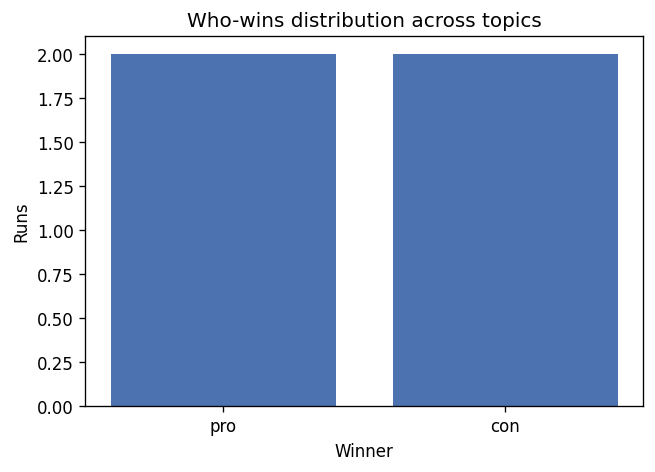
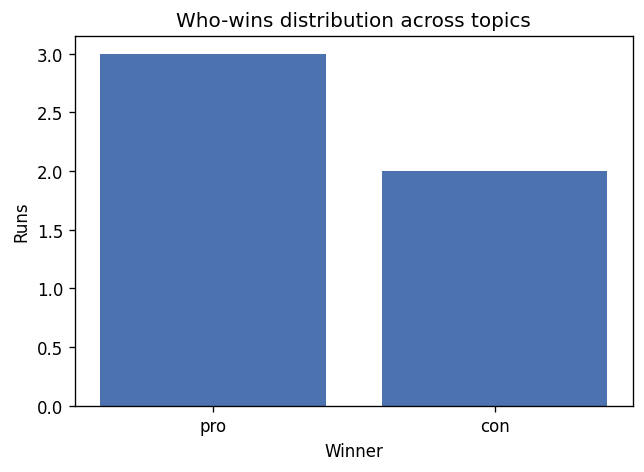
Add 5-round social-media-ban debate run + update dataset/charts
Adds a 5-round debate on "Children under 16 should be banned from
social media" (winner: Pro, 146,356 tokens, ~$0.564). Regenerates the
runs dataset CSV (now 5 rows), the who-wins and agree-vs-disagree
figures, and updates runs/README.md and notebooks/figures/README.md
(n=4 -> n=5).

diff --git a/runs/social-media-ban/social-media-ban.md b/runs/social-media-ban/social-media-ban.md
@@ -1,0 +1,205 @@
+# Debate run `social-media-ban`
+
+**Topic:** Children under 16 should be banned from social media
+
+## Transcript
+
+### Round 1
+
+**Pro** (54 words)
+
+I'm ready to argue **FOR** the motion: *"Children under 16 should be banned from social media."*
+
+Please go ahead and share the **opponent's opening argument** so I can analyze it and build a strong rebuttal. Or, if this is the **opening round**, just let me know and I'll construct my first argument right away!
+
+**Con** (136 words)
+
+**Opening argument — AGAINST the motion:**
+
+The opponent has offered no actual case — just procedure. That alone exposes the weakness of the pro-ban position: there is no self-evident reason a blanket ban is justified.
+
+Here's why the motion fails:
+
+1. **Evidence opposes it.** Research (1News, 2026) confirms *some* social media use genuinely benefits teen mental health by fostering connection and community.
+2. **The age threshold is arbitrary.** No justification has been offered for why 16 specifically is the magic number.
+3. **Better solutions exist.** Parental oversight and digital literacy education are proven, targeted tools — a blunt ban ignores them entirely.
+4. **Bans backfire.** Driving usage underground removes safeguards, making children *less* safe, not more.
+
+A ban punishes responsible users to address irresponsible use. Education and regulation — not prohibition — are the right answers.
+
+### Round 2
+
+**Pro** (133 words)
+
+**Rebuttal — FOR the motion:**
+
+The opponent cherry-picks *"some benefits"* while ignoring the dominant evidence: rising rates of anxiety, depression, cyberbullying, and predatory grooming that disproportionately harm under-16s.
+
+**Age 16 is not arbitrary.** Neuroscience confirms adolescent brains are uniquely vulnerable to addictive, dopamine-exploiting platform design — the same logic underpins age limits on alcohol, gambling, and driving. The opponent's "bans backfire" claim would equally dismantle *all* those protections — a position nobody defends.
+
+**Parental oversight and digital literacy have been available for a decade and have failed.** Youth mental health crises worsened *during* that experiment. Insufficient tools cannot substitute for a meaningful safeguard.
+
+Crucially, **Australia has already legislated** an under-16 ban — real governments are acting on real evidence. The pro-ban position is not speculative; it is happening. Education alone is not enough.
+
+**Con** (145 words)
+
+**Rebuttal — AGAINST the motion:**
+
+The opponent's Australia argument confuses **legislation with evidence**. Australia's law is brand-new — zero outcome data exists. Passing a ban is not proof it works.
+
+Researchers are explicit: *"We cannot ban our way out of a youth mental health crisis"* — no solid evidence demonstrates banning teens from social media improves mental health outcomes.
+
+**Correlation ≠ causation.** Mental health decline links to COVID, poverty, and academic pressure — not social media alone. Blaming one platform ignores complex realities.
+
+The alcohol/gambling analogy **undermines** the pro-ban case: those age limits still fail minors routinely, proving bans are imperfect tools. Worse, grooming occurs across **all** digital platforms — a social media ban cannot stop it.
+
+Governments acting does not make policy *correct*. History is full of well-intentioned bans that backfired. Real protection means better enforcement, platform accountability, and genuine education — not prohibition.
+
+### Round 3
+
+**Pro** (139 words)
+
+**Rebuttal — FOR the motion:**
+
+The opponent claims "no causal evidence" — researchers explicitly reject that. The *World Happiness Report* (2026) confirms social media harms adolescents **at population scale**, and the U.S. Surgeon General cited studies showing heavy use **doubles depression risk** in teens. *Science News* (2024) directly states objecting to the "no causation" claim is fully warranted.
+
+On imperfect enforcement: alcohol age limits aren't perfect — yet nobody proposes abolishing them. Imperfect protection **still reduces harm**. That's the standard we apply everywhere.
+
+Most critically: **"education and regulation" has been the active strategy for over a decade.** Youth mental health declined *anyway*. The opponent's preferred tools have already failed in real time.
+
+A ban is not a perfect solution — it is a **necessary** one when all softer alternatives have demonstrably collapsed. The evidence and the urgency demand it.
+
+**Con** (136 words)
+
+**Rebuttal — AGAINST the motion:**
+
+The opponent declares the science settled — experts disagree. DW and EducationDaily **openly question** whether prohibition addresses youth mental health decline at all. Cherry-picking the Surgeon General while ignoring contradictory peer-reviewed work is not "evidence"; it's selection bias.
+
+Crucially: **regulation was never properly tried.** Declaring it "failed" after a decade of underfunded, unenforced half-measures is like abandoning medicine after half a dose.
+
+Australia's own implementation experts warn the ban is **"easy to circumvent"** — teens simply migrate to darker, unregulated spaces with *zero* safeguards. That's not protection; it's abandonment.
+
+Mental health crises stem from poverty, COVID trauma, and academic pressure — not social media alone. A ban **cannot fix** those root causes.
+
+The correct standard isn't "imperfect bans reduce *some* harm" — it's whether targeted regulation achieves *better* outcomes. It does.
+
+### Round 4
+
+**Pro** (141 words)
+
+**Rebuttal — FOR the motion:**
+
+The opponent's core defence — *"regulation was never properly tried"* — is an empty promise. After three rounds, they still offer **zero concrete plan**, no timeline, no jurisdiction where targeted regulation has measurably improved teen mental health. That's not an argument; it's an indefinite deferral.
+
+Haidt's peer-reviewed Collaborative Review confirms Instagram experiments show social media **directly causes** mental health decline in teen girls — not mere correlation. The opponent dismisses the Surgeon General but counters none of the actual data.
+
+The "darker spaces" objection self-destructs: it applies equally to alcohol, gambling, and driving age limits — laws nobody proposes abolishing.
+
+Multi-cause crises still warrant targeted action. We ban drink-driving even though fatigue also causes accidents.
+
+**A vague future regulation that has never worked anywhere is not a safer alternative — it is no alternative at all.**
+
+**Con** (135 words)
+
+**Rebuttal — AGAINST the motion:**
+
+The opponent demands a concrete jurisdiction — here it is: **the EU's Digital Services Act**, actively enforcing platform-level risk assessments for minors *right now*. That's real regulation, real enforcement, real accountability.
+
+**Haidt's research is not settled science.** Over 100 researchers signed an open letter challenging his methodology. The opponent presents contested findings as consensus — that's intellectually dishonest.
+
+The drink-driving analogy **collapses entirely**: driving is a privilege. Digital literacy is now a fundamental life skill. Banning children from it denies them participation in modern society.
+
+Crucially, **CEPA explicitly concludes social media bans fail to protect children** — endorsing the DSA regulatory model instead.
+
+The opponent has never demonstrated Australia's ban is enforceable. A VPN defeats it in seconds.
+
+Targeted regulation: *proven, existing, enforceable.* A blanket ban: *unenforceable, harmful, and unnecessary.*
+
+### Round 5
+
+**Pro** (137 words)
+
+**Rebuttal — FOR the motion:**
+
+The DSA is the opponent's star witness — yet the **OECD (April 2026)** confirms youth mental health is **still worsening across Europe** while the DSA operates. That's not proof of success; it's proof regulation alone is insufficient.
+
+"Digital literacy" does not require TikTok or Instagram. Children develop online skills through educational platforms **without** exposure to algorithmically addictive, engagement-maximising feeds designed to exploit developing brains.
+
+The 100-researcher letter challenges *methodology* — not the entire independent evidence base including WHO, OECD, and the U.S. Surgeon General. Disputing one researcher doesn't erase converging global concern.
+
+VPN circumvention undermines **every** age-based law. Nobody abolishes alcohol age limits because fake IDs exist.
+
+CEPA is one organisation. It does not override the Surgeon General, OECD, WHO, and multiple legislating governments. **The DSA is unproven. A ban is necessary.**
+
+**Con** (135 words)
+
+**Rebuttal — AGAINST the motion:**
+
+The opponent's OECD data predates full DSA enforcement — condemning a tool before it fully operates is not evidence; it's impatience.
+
+**The Hill (Feb 2026)** explicitly concludes teen social media bans are **ineffective**, driving circumvention rather than protection. **Brookings (Dec 2025)** confirms bans don't clearly solve underlying problems.
+
+The opponent commits a **false binary**: "regulation insufficient alone" ≠ "ban is necessary." The logical answer is *stronger enforcement* — not prohibition.
+
+Critically, **Australia's own ABC** warned the ban disproportionately harms isolated and marginalised teenagers — the very children most needing connection and support. A blanket ban punishes society's most vulnerable.
+
+The opponent's entire case rests on one leap: nothing else works, therefore ban. That's not logic — it's surrender. Better enforcement, platform accountability, and digital literacy remain the superior, evidence-backed path.
+
+## Closing discussion
+
+**Pro** (136 words)
+
+**Closing Statement — FOR the motion:**
+
+The opponent spent five rounds defending a strategy — *"targeted regulation"* — that has already been running and already failed. Youth mental health worsened **during** the DSA era, **during** the digital literacy era, **during** a decade of platform self-regulation.
+
+The world has answered. **Australia, France, Greece, Spain, Denmark, Norway, and Malaysia** have all moved to ban under-16s. This is not ideology — it is democratic governments responding to a documented crisis.
+
+Digital literacy doesn't require Instagram. Children thrive, learn, and connect **without** algorithmically addictive feeds engineered to maximise engagement at the cost of wellbeing.
+
+The opponent offered promises. We offered precedent.
+
+When softer tools fail and children are being harmed **at scale**, protection is not optional — it is a moral obligation. The motion stands. **Ban social media for under-16s.**
+
+**Con** (143 words)
+
+## Closing Statement — AGAINST the Motion
+
+Throughout this debate, the pro-ban side has relied on prediction, correlation, and impatience. Here is what we now *know*:
+
+**Australia's ban — their flagship evidence — has already failed.** 61% of young Australians bypassed it within weeks by simply changing a birthdate. *The Conversation* warns it could do **more harm than good**, particularly for marginalised teens who depend on digital community.
+
+Not one enacted ban has produced measurable mental health improvement. Not one.
+
+The opponent's entire case is: *"everything else failed, therefore ban."* That's not logic — it's surrender dressed as policy.
+
+Children deserve **real protection**: enforced platform accountability, age-appropriate design standards, and genuine digital education. These address root causes. A ban merely redirects vulnerable children into darker, completely unregulated spaces.
+
+**Prohibition has never been the answer. Evidence, enforcement, and education are.**
+
+Vote against this motion.
+
+## Controller nudges
+
+_No nudges were needed — neither agent drifted._
+
+## Verdict
+
+- **Winner:** Pro
+- **Agents converged:** no
+- **Scores:** Pro 20.25, Con 19.5
+
+**Summary.** Debate of 12 turns. The pro side argued more effectively and wins. The agents stayed opposed. Judged on argumentation, rebuttal quality and engagement — not factual correctness.
+
+**Rationale.** Pro scored 20.25 and Con scored 19.5 on argumentation/rebuttal/engagement; winner = pro.
+
+## Cost & tokens
+
+- **Total tokens:** 146356 (input 135918, output 10438)
+- **Total cost:** $0.564324
+- **Total latency:** 232656 ms
+
+| Model | Input tokens | Output tokens | $ Input | $ Output | $ Total |
+| --- | --- | --- | --- | --- | --- |
+| anthropic:claude-sonnet-4-6 | 135918 | 10438 | $0.407754 | $0.156570 | $0.564324 |
+| Overall | 135918 | 10438 | $0.407754 | $0.156570 | $0.564324 |

diff --git a/notebooks/figures/README.md b/notebooks/figures/README.md
@@ -1,10 +1,10 @@
 # Debate results — interpreted visualizations (PRD §9, task 14.3)
 
 These charts visualize the four PRD §9 analyses over the committed sample runs
-(`runs/dataset/runs_summary.csv`, **n = 4** debates — the full 10-round
+(`runs/dataset/runs_summary.csv`, **n = 5** debates — the full 10-round
 `capitalism` run, the 5-round `four-day-work-week` policy run, the 5-round
-`online-education` education debate, and the 5-round `nuclear-energy` energy
-debate). They are
+`online-education` education debate, the 5-round `nuclear-energy` energy
+debate, and the 5-round `social-media-ban` society/tech debate). They are
 regenerated from the durable `runs/<run_id>.jsonl` logs by reusing the 14.2
 analysis functions (`agent_debate.core.research.analysis`) — no aggregation is
 re-implemented here.
@@ -18,47 +18,48 @@ uv run --group viz python scripts/generate_figures.py
 
 PRD §9 asks for *interpretation*, not just numbers, with an eye on whether the
 anti-sycophancy design holds. Each chart below is read in that light. The
-empirical basis is n = 4 runs (an economics topic at 10 rounds, a policy
-topic at 5 rounds, an education topic at 5 rounds, and an energy topic at 5
-rounds), so these illustrate tendencies across four debates rather than
-statistical trends across many.
+empirical basis is n = 5 runs (an economics topic at 10 rounds, a policy
+topic at 5 rounds, an education topic at 5 rounds, an energy topic at 5
+rounds, and a society/tech topic at 5 rounds), so these illustrate tendencies
+across five debates rather than statistical trends across many.
 
 ## 1. Who-wins distribution
 
 ![Who-wins distribution](who_wins.png)
 
-The four committed runs split evenly: `capitalism` and `four-day-work-week` were won by
-**pro**; `online-education` and `nuclear-energy` were won by **con**.
-With only four runs this is a small sample — it does not establish a structural
+The five committed runs split **pro 3 / con 2**: `capitalism`, `four-day-work-week`,
+and `social-media-ban` were won by **pro**; `online-education` and `nuclear-energy`
+were won by **con**.
+With only five runs this is a small sample — it does not establish a structural
 favourite for either side. The verdict mechanism itself (side-anchoring +
 independent contexts, §5, plus the controller's debate-derived judgement) is
 what guards against one persona dominating; that logic is exercised by the
-engine tests, not inferred from a three-run chart.
+engine tests, not inferred from a five-run chart.
 
 ## 2. Agree vs disagree
 
 ![Agree vs disagree](agree_vs_disagree.png)
 
-**0 % convergence across all four runs** — all debates ended in disagreement
+**0 % convergence across all five runs** — all debates ended in disagreement
 (`converged = False`). This is the *expected* result for an adversarial debate
 format: Pro and Con are anchored to opposing sides and instructed not to
 capitulate, so genuine agreement should be rare. A high agree rate here would
 be a red flag for sycophancy/capture (one side rolling over). Zero convergence
-across all four runs is consistent with the format holding the adversarial tension
+across all five runs is consistent with the format holding the adversarial tension
 it was designed for, not a defect.
 
 ## 3. Controller nudges per side (anti-sycophancy evidence)
 
 ![Nudges per side](nudges_per_side.png)
 
-**0 nudges on both sides across all four runs.** The controller's drift/nudge
+**0 nudges on both sides across all five runs.** The controller's drift/nudge
 mechanism (§8) corrects a debater that gets captured by its opponent and
-abandons its assigned side. In none of the four runs did it have to intervene: the side
+abandons its assigned side. In none of the five runs did it have to intervene: the side
 anchors held on their own. That is the headline anti-sycophancy result — the
 design keeps each agent on-side *without* needing the safety net. This does
 not mean the nudge path is untested: the staged-drift detection/correction
-logic is exercised directly by the engine tests (task 8.4); all four real runs
-simply did not trip it. With n = 4 we read this as "the anchoring held on
+logic is exercised directly by the engine tests (task 8.4); all five real runs
+simply did not trip it. With n = 5 we read this as "the anchoring held on
 all topics tested", not as proof the controller never nudges.
 
 ## 4. Tokens & latency per round

diff --git a/runs/README.md b/runs/README.md
@@ -22,10 +22,11 @@ two fixes in #202 — inject the debate topic into the debater context — and #
 actually deliver the agent system prompt to the model on the `message_history`
 path). The debaters argue the stated motion and rebut each other's actual words.
 
-The repo keeps **four committed sample debates**: a full 10-round `capitalism` run at
+The repo keeps **five committed sample debates**: a full 10-round `capitalism` run at
 the PRD default, a 5-round `four-day-work-week` policy debate added to expand the
-dataset, a 5-round `online-education` debate on the education topic, and a 5-round
-`nuclear-energy` debate on the energy/climate topic. Three earlier
+dataset, a 5-round `online-education` debate on the education topic, a 5-round
+`nuclear-energy` debate on the energy/climate topic, and a 5-round `social-media-ban`
+debate on the society/tech topic. Three earlier
 reduced-round sample debates were removed to avoid presenting them as current evidence.
 
 | Topic | Kind | Rounds | Winner | Total tokens | Cost (USD) | Read it |
@@ -34,6 +35,7 @@ reduced-round sample debates were removed to avoid presenting them as current ev
 | A four-day work week should become the global standard | policy | 5 | Pro | 146,555 | $0.566 | [`four-day-work-week/four-day-work-week.md`](four-day-work-week/four-day-work-week.md) |
 | Online education is superior to traditional classroom learning | education | 5 | Con | 140,898 | $0.544 | [`online-education/online-education.md`](online-education/online-education.md) |
 | Nuclear energy is essential for solving the climate crisis | energy | 5 | Con | 170,851 | $0.652 | [`nuclear-energy/nuclear-energy.md`](nuclear-energy/nuclear-energy.md) |
+| Children under 16 should be banned from social media | society/tech | 5 | Pro | 146,356 | $0.564 | [`social-media-ban/social-media-ban.md`](social-media-ban/social-media-ban.md) |
 
 The **Read it** link opens the human-readable transcript + verdict + cost table; the
 matching machine-readable event log sits alongside it as `<run_id>/<run_id>.jsonl`. The
